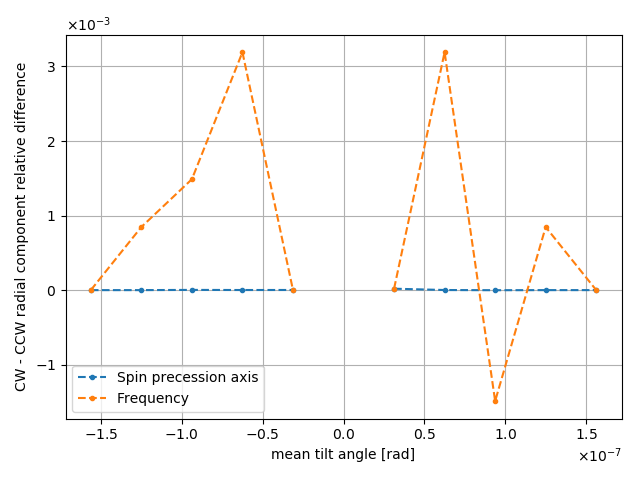
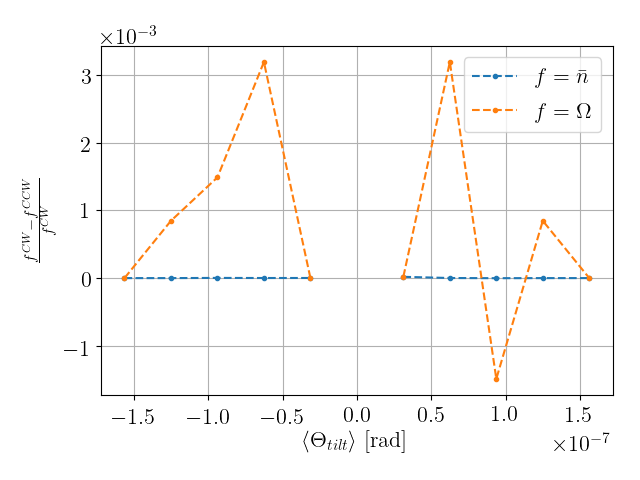
Image labels in Latex

diff --git a/Dissertation/systematics/spin_decoherence.tex b/Dissertation/systematics/spin_decoherence.tex
@@ -178,9 +178,9 @@ f\cdot t + \phi)$, оцениваются все три параметра $(\ha
 \begin{figure}[h!]
 	\centering
 	\subbottom[Полный диапазон.\label{decoh:fig:full:ny_vs_y0_GSY}]{%
-		\includegraphics[height=.35\paperheight]{images/decoh_sim/ny_vs_offset}}
+		\includegraphics[width=\linewidth]{images/decoh_sim/ny_vs_offset}}
 	\subbottom[Деталировка кривой при оптимальном значении $G_Y$.\label{decoh:fig:zoom:ny_vs_y0_GSY}]{%
-		\includegraphics[height=.35\paperheight]{images/decoh_sim/ny_vs_offset_zoom}}
+		\includegraphics[width=\linewidth]{images/decoh_sim/ny_vs_offset_zoom}}
 	\legend{Цветом обозначены данные для различных значений градиента $G_Y$ Y-секступоля.}
 	\caption{Вертикальная компонента $\bar n_y$ оси прецессии спина в зависимости от смещения частицы от референсной орбиты.\label{decoh:fig:ny_vs_y0_GSY}}
 \end{figure}
@@ -189,9 +189,9 @@ f\cdot t + \phi)$, оцениваются все три параметра $(\ha
 \begin{figure}[h!]
 	\centering
 	\subbottom[Полный диапазон~\label{decoh:fig:full:ST_vs_y0_GSY}]{%
-		\includegraphics[height=.35\paperheight]{images/decoh_sim/spin_tune_vs_offset}}
+		\includegraphics[width=\linewidth]{images/decoh_sim/spin_tune_vs_offset}}
 	\subbottom[Деталировка кривой при оптимальном значении $G_Y$\label{decoh:fig:zoom:ST_vs_y0_GSY}]{%
-		\includegraphics[height=.35\paperheight]{images/decoh_sim/spin_tune_vs_offset_zoom}
+		\includegraphics[width=\linewidth]{images/decoh_sim/spin_tune_vs_offset_zoom}
 	}
 	\legend{Цветом обозначены данные для различных значений градиента $G_Y$ Y-секступоля.}
 	\caption{Спин-тюн $\nu_s$ в зависимости от смещения частицы от референсной орбиты.\label{decoh:fig:ST_vs_y0_GSY}}
@@ -200,7 +200,7 @@ f\cdot t + \phi)$, оцениваются все три параметра $(\ha
 На Рисунке~\ref{decoh:fig:yb_traj} изображены траектории частиц в плоскости $(Y,B)$ фазового пространства, полученные в результате трекинга через неидеальный ускоритель.
 \begin{figure}[h!]
 	\centering
-	\includegraphics[height=.35\paperheight]{images/decoh_sim/YB-PHASE_SPACE_IMPERFECT_UNOPT}
+	\includegraphics[width=\linewidth]{images/decoh_sim/YB-PHASE_SPACE_IMPERFECT_UNOPT}
 	\caption{Траектории частиц в плоскости $(Y,B)$ фазового пространства.\label{decoh:fig:yb_traj}} 
 \end{figure}
 
@@ -213,10 +213,10 @@ f\cdot t + \phi)$, оцениваются все три параметра $(\ha
 \begin{figure}[!h]
 	\centering
 	\subbottom[С выключенными секступолями.]{%
-		\includegraphics[height=.35\paperheight]{images/decoh_sim/ST_VS_YB_IMPERFECT_UNOPT}}
+		\includegraphics[width=\linewidth]{images/decoh_sim/ST_VS_YB_IMPERFECT_UNOPT}}
 	\hfill
 	\subbottom[С включенными секступолями.]{%
-		\includegraphics[height=.35\paperheight]{images/decoh_sim/ST_VS_YB_IMPERFECT_OPTIM}}
+		\includegraphics[width=\linewidth]{images/decoh_sim/ST_VS_YB_IMPERFECT_OPTIM}}
 	\hfill
 	\caption{Спин-тюны частиц на их траекториях в неидеальной FS-труктуре.\label{decoh:fig:ST_on_traj}}
 \end{figure}
@@ -224,10 +224,10 @@ f\cdot t + \phi)$, оцениваются все три параметра $(\ha
 \begin{figure}[!h]
 	\centering
 	\subbottom[С выключенными секступолями.]{%
-		\includegraphics[height=.35\paperheight]{images/decoh_sim/NX_VS_YB_IMPERFECT_UNOPT}}
+		\includegraphics[width=\linewidth]{images/decoh_sim/NX_VS_YB_IMPERFECT_UNOPT}}
 	\hfill
 	\subbottom[С включенными секступолями.]{%
-		\includegraphics[height=.35\paperheight]{images/decoh_sim/NX_VS_YB_IMPERFECT_OPTIM}}
+		\includegraphics[width=\linewidth]{images/decoh_sim/NX_VS_YB_IMPERFECT_OPTIM}}
 	\hfill
 	\caption{Радиальные компоненты осей прецессии спинов частиц на их траекториях в неидеальной FS-труктуре.\label{decoh:fig:NX_on_traj}}
 \end{figure}
@@ -235,10 +235,10 @@ f\cdot t + \phi)$, оцениваются все три параметра $(\ha
 \begin{figure}[!h]
 	\centering
 	\subbottom[С выключенными секступолями.]{%
-		\includegraphics[height=.35\paperheight]{images/decoh_sim/NY_VS_YB_IMPERFECT_UNOPT}}
+		\includegraphics[width=\linewidth]{images/decoh_sim/NY_VS_YB_IMPERFECT_UNOPT}}
 	\hfill
 	\subbottom[С включенными секступолями.]{%
-		\includegraphics[height=.35\paperheight]{images/decoh_sim/NY_VS_YB_IMPERFECT_OPTIM}}
+		\includegraphics[width=\linewidth]{images/decoh_sim/NY_VS_YB_IMPERFECT_OPTIM}}
 	\hfill
 	\caption{Вертикальные компоненты осей прецессии спинов частиц на их траекториях в неидеальной FS-труктуре.\label{decoh:fig:NY_on_traj}}
 \end{figure}
@@ -246,10 +246,10 @@ f\cdot t + \phi)$, оцениваются все три параметра $(\ha
 \begin{figure}[!h]
 	\centering
 	\subbottom[С выключенными секступолями.]{%
-		\includegraphics[height=.35\paperheight]{images/decoh_sim/NZ_VS_YB_IMPERFECT_UNOPT}}
+		\includegraphics[width=\linewidth]{images/decoh_sim/NZ_VS_YB_IMPERFECT_UNOPT}}
 	\hfill
 	\subbottom[С включенными секступолями.]{%
-		\includegraphics[height=.35\paperheight]{images/decoh_sim/NZ_VS_YB_IMPERFECT_OPTIM}}
+		\includegraphics[width=\linewidth]{images/decoh_sim/NZ_VS_YB_IMPERFECT_OPTIM}}
 	\hfill
 	\caption{Продольные компоненты осей прецессии спинов частиц на их траекториях в неидеальной FS-труктуре.\label{decoh:fig:NZ_on_traj}}
 \end{figure}
@@ -265,6 +265,6 @@ f\cdot t + \phi)$, оцениваются все три параметра $(\ha
 На Рисунке~\ref{decoh:fig:nbar_vs_ST} представлены зависимости средних значений (уровней) радиальной и вертикальной компонент оси стабильного спина частицы от среднего значения её спин-тюна. 
 \begin{figure}[!h]
 	\centering
-	\includegraphics[height=.35\paperheight]{images/decoh_sim/mean_n_bar_vs_spin_tune}
+	\includegraphics[width=\linewidth]{images/decoh_sim/mean_n_bar_vs_spin_tune}
 	\caption{Средние уровни поперечных компонент осей стабильного спина частиц, в зависимости от уровня их спин-тюна.\label{decoh:fig:nbar_vs_ST}}
 \end{figure}

diff --git a/Dissertation/systematics/imperfection_fields_signal.tex b/Dissertation/systematics/imperfection_fields_signal.tex
@@ -83,11 +83,11 @@ $\mu_i = (i-5)\cdot 10^{-6}$ рад, $i\in\lbrace0,\dots,10\rbrace$. Обе си
 
 Для радиальной компоненты оси стабильного спина, относительная разница вычислялась как 
 \[
-\delta\bar n_x = \frac{\bar n_x^{CW}(\Theta_{tilt}) - \bar n_x^{CCW}(\Theta_{tilt})}{\bar n_x^{CW}(\Theta_{tilt})};
+\delta\bar n_x = \frac{\bar n_x^{CW}(\avg{\Theta_{tilt}}) - \bar n_x^{CCW}(\avg{\Theta_{tilt}})}{\bar n_x^{CW}(\avg{\Theta_{tilt}})};
 \]
 для угловой скорости, соответственно:
 \[
-\delta\W_x = \frac{\W_x^{CW}(\Theta_{tilt}) - \W_x^{CCW}(\Theta_{tilt})}{\W_x^{CW}(\Theta_{tilt})}.
+\delta\W_x = \frac{\W_x^{CW}(\avg{\Theta_{tilt}}) - \W_x^{CCW}(\avg{\Theta_{tilt}})}{\W_x^{CW}(\avg{\Theta_{tilt}})}.
 \]
 
 Из рисунков следует, что в обоих случаях движения пучка, ось стабильного спина наклонена одинаково; при этом существует различие между спин-тюнами CW и CCW пучков, на уровне не более десятых долей процента, которое тем сильнее, чем с меньшей скоростью крутится Спин-Колесо. Эта разница объясняется различием референсных орбит прямого и обратного пучков. 
